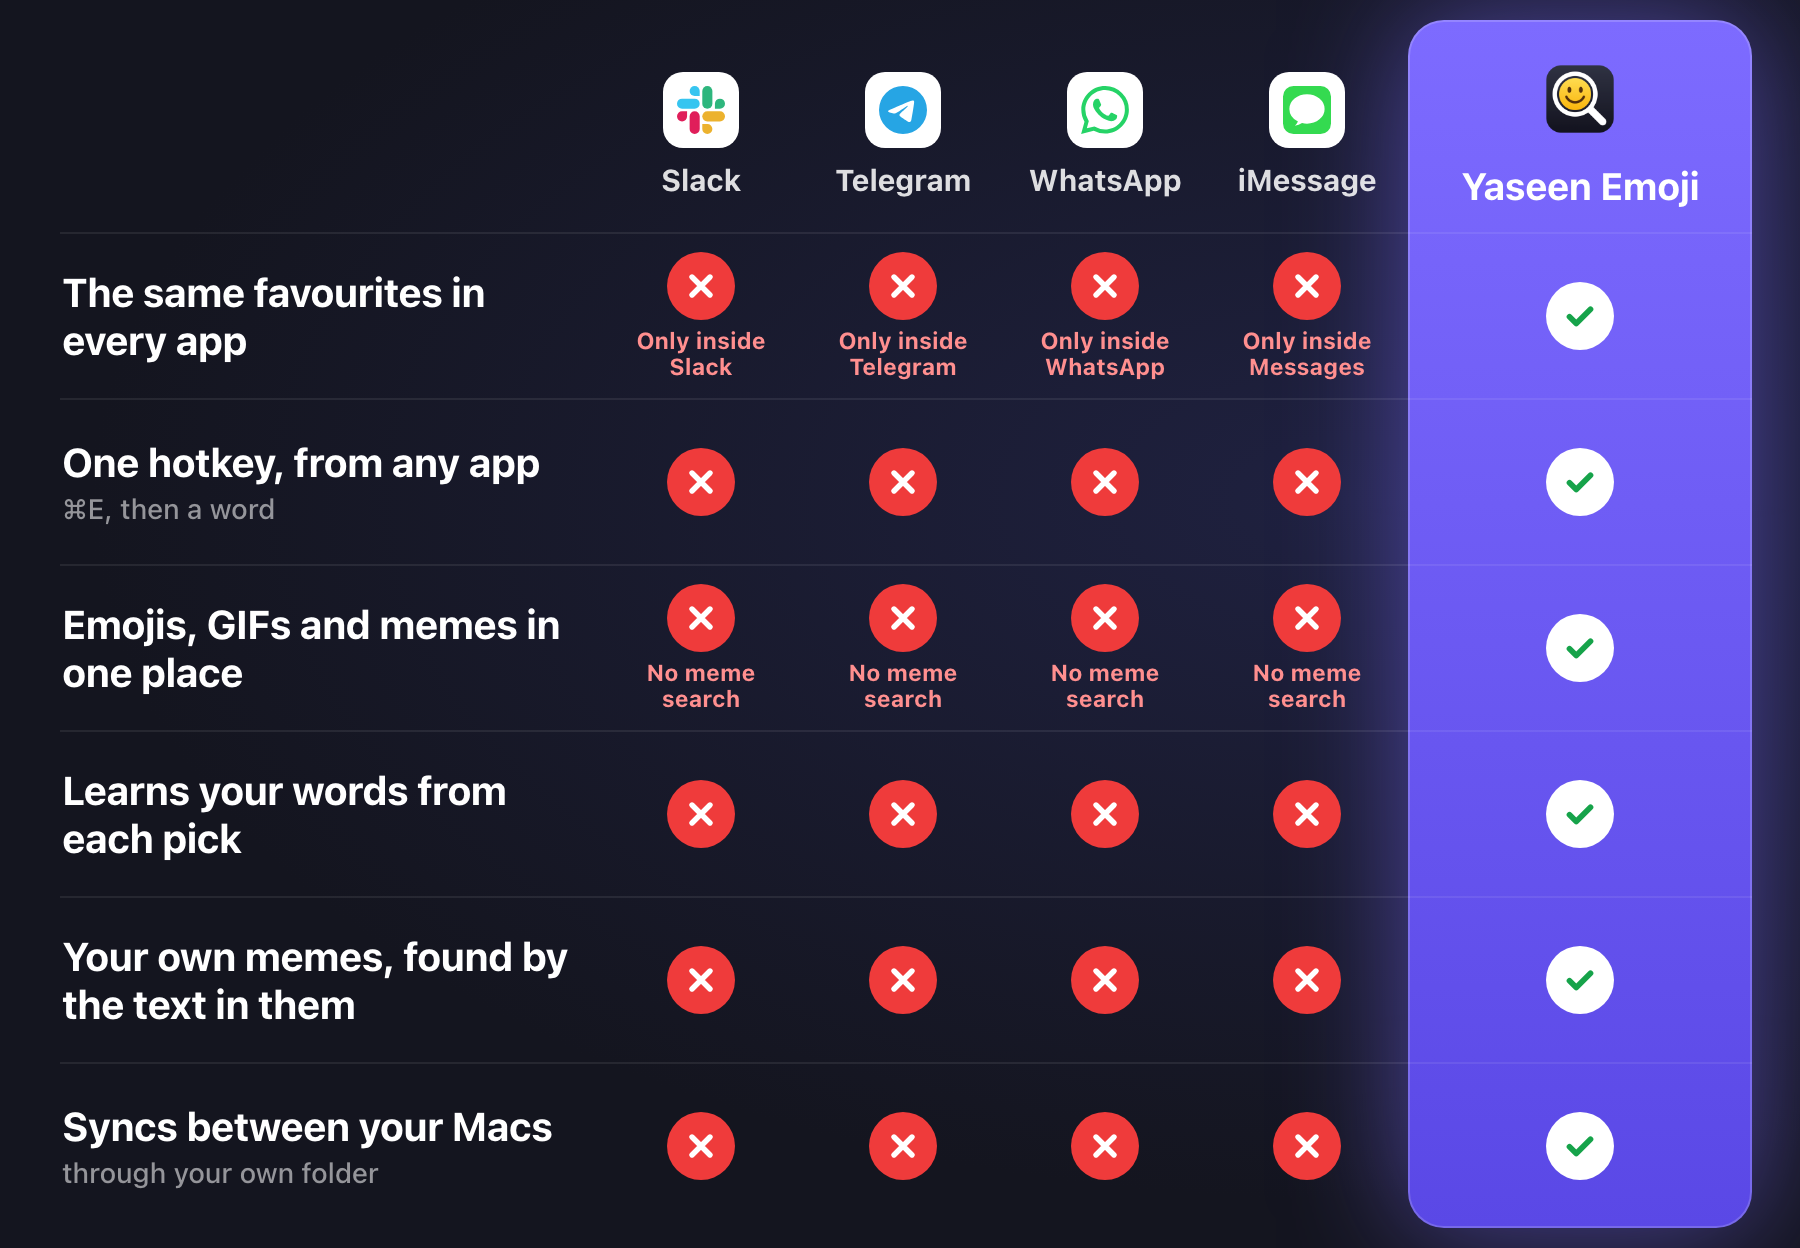
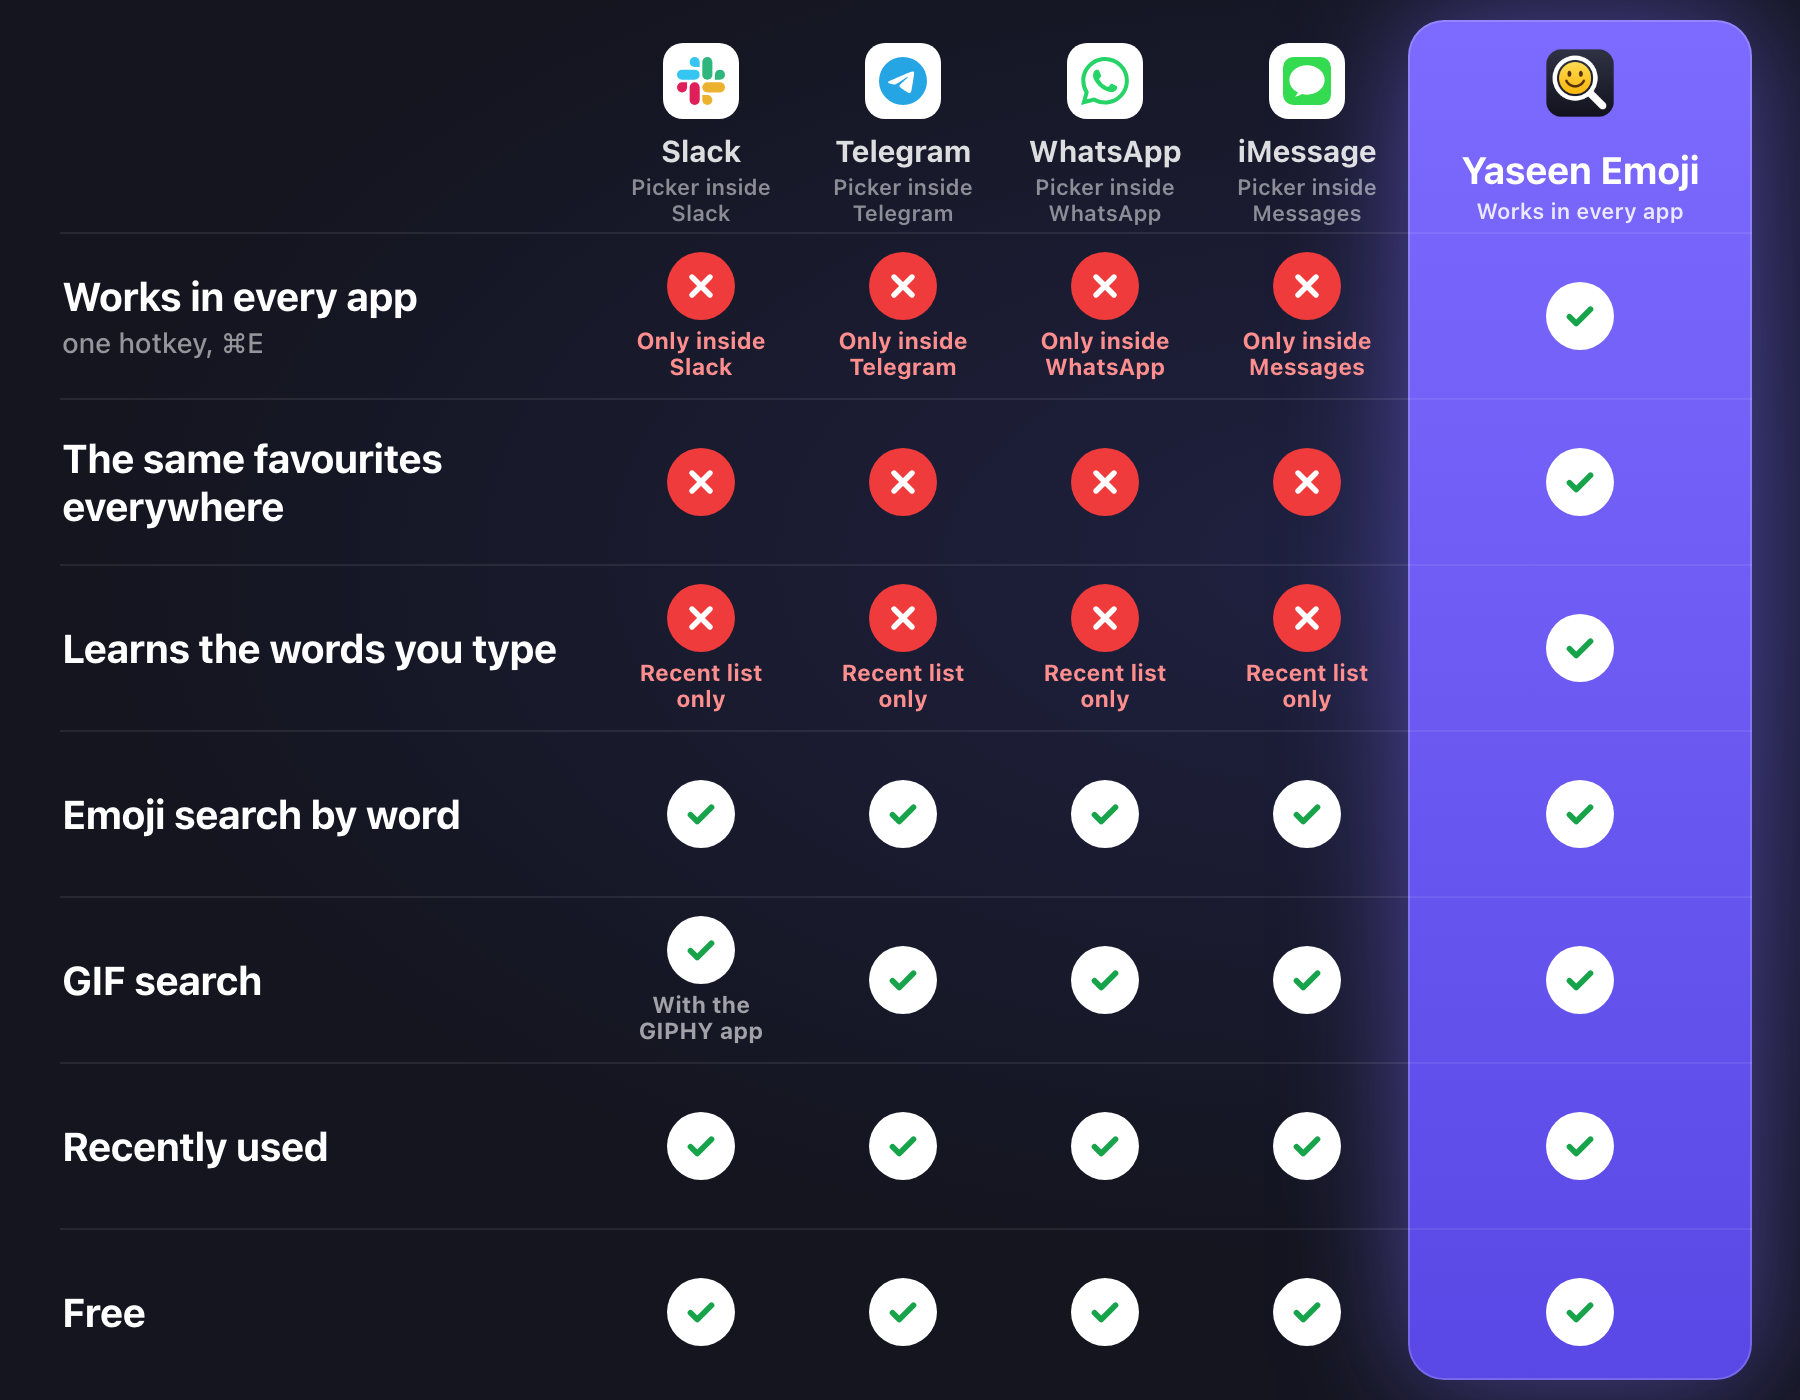
Make the comparison fair: the rows where the others fail first, then the basics that all five do

diff --git a/docs/assets/src/compare.html b/docs/assets/src/compare.html
@@ -4,7 +4,7 @@
 
   USAGE (from the repository root):
     "/Applications/Google Chrome.app/Contents/MacOS/Google Chrome" --headless=new --disable-gpu \
-      --hide-scrollbars --force-device-scale-factor=2 --window-size=900,624 \
+      --hide-scrollbars --force-device-scale-factor=2 --window-size=900,700 \
       --screenshot="$PWD/docs/assets/compare.png" "file://$PWD/docs/assets/src/compare.html"
 
   A change of a row is one line in ROWS below, then the command again.
@@ -18,11 +18,11 @@
 <style>
   :root { --card: #14151f; --line: rgba(255,255,255,0.08); --text: #ffffff; --soft: rgba(255,255,255,0.55); }
   html, body { margin: 0; background: var(--card); }
-  body { width: 900px; height: 624px; font-family: -apple-system, BlinkMacSystemFont, "SF Pro Display", "Helvetica Neue", sans-serif;
+  body { width: 900px; height: 700px; font-family: -apple-system, BlinkMacSystemFont, "SF Pro Display", "Helvetica Neue", sans-serif;
          color: var(--text); -webkit-font-smoothing: antialiased; overflow: hidden; }
-  .card { position: relative; width: 900px; height: 624px; box-sizing: border-box; padding: 18px 24px 0 30px;
+  .card { position: relative; width: 900px; height: 700px; box-sizing: border-box; padding: 18px 24px 0 30px;
           background: radial-gradient(900px 500px at 75% 40%, #1f2140 0%, var(--card) 70%); }
-  .hi { position: absolute; top: 10px; right: 24px; width: 172px; height: 604px; border-radius: 18px;
+  .hi { position: absolute; top: 10px; right: 24px; width: 172px; height: 680px; border-radius: 18px;
         background: linear-gradient(180deg, #7d6bff 0%, #5a48e6 100%);
         box-shadow: 0 0 60px rgba(124, 107, 255, 0.55), inset 0 0 0 1px rgba(255,255,255,0.18); }
   table { position: relative; border-collapse: collapse; width: 100%; table-layout: fixed; }
@@ -41,6 +41,9 @@
   .mark { display: inline-flex; align-items: center; justify-content: center; width: 34px; height: 34px; border-radius: 50%; }
   .no { background: #ef3b3b; } .yes { background: #fff; }
   .mark svg { width: 18px; height: 18px; }
+  th .sub { display: block; margin-top: 3px; font-size: 11px; font-weight: 600; color: rgba(255,255,255,0.5); }
+  th .sub.me { color: rgba(255,255,255,0.85); }
+  .why.ok { color: rgba(255,255,255,0.6); }
   .why { display: block; max-width: 84px; margin: 4px auto 0; font-size: 11.5px; font-weight: 700; color: #ff8f8f; line-height: 1.15; }
 </style>
 </head>
@@ -59,18 +62,20 @@
     { name: "Slack", logo: { svg: '<path fill="#E01E5A" d="M5.042 15.165a2.528 2.528 0 0 1-2.52 2.523A2.528 2.528 0 0 1 0 15.165a2.527 2.527 0 0 1 2.522-2.52h2.52v2.52z"/><path fill="#E01E5A" d="M6.313 15.165a2.527 2.527 0 0 1 2.521-2.52 2.527 2.527 0 0 1 2.521 2.52v6.313A2.528 2.528 0 0 1 8.834 24a2.528 2.528 0 0 1-2.521-2.522v-6.313z"/><path fill="#36C5F0" d="M8.834 5.042a2.528 2.528 0 0 1-2.521-2.52A2.528 2.528 0 0 1 8.834 0a2.528 2.528 0 0 1 2.521 2.522v2.52H8.834z"/><path fill="#36C5F0" d="M8.834 6.313a2.528 2.528 0 0 1 2.521 2.521 2.528 2.528 0 0 1-2.521 2.521H2.522A2.528 2.528 0 0 1 0 8.834a2.528 2.528 0 0 1 2.522-2.521h6.312z"/><path fill="#2EB67D" d="M18.956 8.834a2.528 2.528 0 0 1 2.522-2.521A2.528 2.528 0 0 1 24 8.834a2.528 2.528 0 0 1-2.522 2.521h-2.522V8.834z"/><path fill="#2EB67D" d="M17.688 8.834a2.528 2.528 0 0 1-2.523 2.521 2.527 2.527 0 0 1-2.52-2.521V2.522A2.527 2.527 0 0 1 15.165 0a2.528 2.528 0 0 1 2.523 2.522v6.312z"/><path fill="#ECB22E" d="M15.165 18.956a2.528 2.528 0 0 1 2.523 2.522A2.528 2.528 0 0 1 15.165 24a2.527 2.527 0 0 1-2.52-2.522v-2.522h2.52z"/><path fill="#ECB22E" d="M15.165 17.688a2.527 2.527 0 0 1-2.52-2.523 2.526 2.526 0 0 1 2.52-2.52h6.313A2.527 2.527 0 0 1 24 15.165a2.528 2.528 0 0 1-2.522 2.523h-6.313z"/>' } },
     { name: "Telegram", logo: { color: "#26A5E4", d: "M11.944 0A12 12 0 0 0 0 12a12 12 0 0 0 12 12 12 12 0 0 0 12-12A12 12 0 0 0 12 0a12 12 0 0 0-.056 0zm4.962 7.224c.1-.002.321.023.465.14a.506.506 0 0 1 .171.325c.016.093.036.306.02.472-.18 1.898-.962 6.502-1.36 8.627-.168.9-.499 1.201-.82 1.23-.696.065-1.225-.46-1.9-.902-1.056-.693-1.653-1.124-2.678-1.8-1.185-.78-.417-1.21.258-1.91.177-.184 3.247-2.977 3.307-3.23.007-.032.014-.15-.056-.212s-.174-.041-.249-.024c-.106.024-1.793 1.14-5.061 3.345-.48.33-.913.49-1.302.48-.428-.008-1.252-.241-1.865-.44-.752-.245-1.349-.374-1.297-.789.027-.216.325-.437.893-.663 3.498-1.524 5.83-2.529 6.998-3.014 3.332-1.386 4.025-1.627 4.476-1.635z" } },
     { name: "WhatsApp", logo: { color: "#25D366", d: "M17.472 14.382c-.297-.149-1.758-.867-2.03-.967-.273-.099-.471-.148-.67.15-.197.297-.767.966-.94 1.164-.173.199-.347.223-.644.075-.297-.15-1.255-.463-2.39-1.475-.883-.788-1.48-1.761-1.653-2.059-.173-.297-.018-.458.13-.606.134-.133.298-.347.446-.52.149-.174.198-.298.298-.497.099-.198.05-.371-.025-.52-.075-.149-.669-1.612-.916-2.207-.242-.579-.487-.5-.669-.51-.173-.008-.371-.01-.57-.01-.198 0-.52.074-.792.372-.272.297-1.04 1.016-1.04 2.479 0 1.462 1.065 2.875 1.213 3.074.149.198 2.096 3.2 5.077 4.487.709.306 1.262.489 1.694.625.712.227 1.36.195 1.871.118.571-.085 1.758-.719 2.006-1.413.248-.694.248-1.289.173-1.413-.074-.124-.272-.198-.57-.347m-5.421 7.403h-.004a9.87 9.87 0 01-5.031-1.378l-.361-.214-3.741.982.998-3.648-.235-.374a9.86 9.86 0 01-1.51-5.26c.001-5.45 4.436-9.884 9.888-9.884 2.64 0 5.122 1.03 6.988 2.898a9.825 9.825 0 012.893 6.994c-.003 5.45-4.437 9.884-9.885 9.884m8.413-18.297A11.815 11.815 0 0012.05 0C5.495 0 .16 5.335.157 11.892c0 2.096.547 4.142 1.588 5.945L.057 24l6.305-1.654a11.882 11.882 0 005.683 1.448h.005c6.554 0 11.89-5.335 11.893-11.893a11.821 11.821 0 00-3.48-8.413Z" } },
-    { name: "iMessage", logo: { color: "#34DA50", d: "M5.285 0A5.273 5.273 0 0 0 0 5.285v13.43A5.273 5.273 0 0 0 5.285 24h13.43A5.273 5.273 0 0 0 24 18.715V5.285A5.273 5.273 0 0 0 18.715 0ZM12 4.154a8.809 7.337 0 0 1 8.809 7.338A8.809 7.337 0 0 1 12 18.828a8.809 7.337 0 0 1-2.492-.303A8.656 7.337 0 0 1 5.93 19.93a9.929 7.337 0 0 0 1.54-2.155 8.809 7.337 0 0 1-4.279-6.283A8.809 7.337 0 0 1 12 4.154" } },
+    { name: "iMessage", short: "Messages", logo: { color: "#34DA50", d: "M5.285 0A5.273 5.273 0 0 0 0 5.285v13.43A5.273 5.273 0 0 0 5.285 24h13.43A5.273 5.273 0 0 0 24 18.715V5.285A5.273 5.273 0 0 0 18.715 0ZM12 4.154a8.809 7.337 0 0 1 8.809 7.338A8.809 7.337 0 0 1 12 18.828a8.809 7.337 0 0 1-2.492-.303A8.656 7.337 0 0 1 5.93 19.93a9.929 7.337 0 0 0 1.54-2.155 8.809 7.337 0 0 1-4.279-6.283A8.809 7.337 0 0 1 12 4.154" } },
   ];
-  // The rows, in the owner's order (YAZ-2931). Each entry of `no` is the reason below the cross of that column, or "".
+  // The rows, in the owner's order (YAZ-2931): the rows where the others fail first, then the basics that they all do.
+  // Each cell: [true or false, the short line below the mark or ""]. The last column (Yaseen Emoji) is always a tick.
+  const Y = [true, ""], N = [false, ""];
   const ROWS = [
-    { text: "The same favourites in every app", small: "",
-      no: ["Only inside Slack", "Only inside Telegram", "Only inside WhatsApp", "Only inside Messages"] },
-    { text: "One hotkey, from any app", small: "⌘E, then a word", no: ["", "", "", ""] },
-    { text: "Emojis, GIFs and memes in one place", small: "",
-      no: ["No meme search", "No meme search", "No meme search", "No meme search"] },
-    { text: "Learns your words from each pick", small: "", no: ["", "", "", ""] },
-    { text: "Your own memes, found by the text in them", small: "", no: ["", "", "", ""] },
-    { text: "Syncs between your Macs", small: "through your own folder", no: ["", "", "", ""] },
+    { text: "Works in every app", small: "one hotkey, ⌘E",
+      cells: [[false, "Only inside Slack"], [false, "Only inside Telegram"], [false, "Only inside WhatsApp"], [false, "Only inside Messages"]] },
+    { text: "The same favourites everywhere", small: "", cells: [N, N, N, N] },
+    { text: "Learns the words you type", small: "", cells: [[false, "Recent list only"], [false, "Recent list only"], [false, "Recent list only"], [false, "Recent list only"]] },
+    { text: "Emoji search by word", small: "", cells: [Y, Y, Y, Y] },
+    { text: "GIF search", small: "", cells: [[true, "With the GIPHY app"], Y, Y, Y] },
+    { text: "Recently used", small: "", cells: [Y, Y, Y, Y] },
+    { text: "Free", small: "", cells: [Y, Y, Y, Y] },
   ];
   const CROSS = '<svg viewBox="0 0 24 24"><path d="M6 6l12 12M18 6L6 18" stroke="#fff" stroke-width="3.6" stroke-linecap="round"/></svg>';
   const TICK = '<svg viewBox="0 0 24 24"><path d="M5 12.5l4.5 4.5L19 7.5" fill="none" stroke="#16a34a" stroke-width="3.8" stroke-linecap="round" stroke-linejoin="round"/></svg>';
@@ -78,13 +83,15 @@
   for (const p of PRODUCTS) {
     const logo = p.logo ? `<span class="logo"><svg viewBox="0 0 24 24">${p.logo.svg || `<path fill="${p.logo.color}" d="${p.logo.d}"/>`}</svg></span>`
                          : `<span class="logo blank"></span>`;
-    head.insertAdjacentHTML("beforeend", `<th>${logo}<span class="name">${p.name}</span></th>`);
+    head.insertAdjacentHTML("beforeend", `<th>${logo}<span class="name">${p.name}</span><span class="sub">Picker inside ${p.short || p.name}</span></th>`);
   }
-  head.insertAdjacentHTML("beforeend", `<th class="me"><span class="logo none"><img src="icon.png" alt=""></span><span class="name">Yaseen Emoji</span></th>`);
+  head.insertAdjacentHTML("beforeend", `<th class="me"><span class="logo none"><img src="icon.png" alt=""></span><span class="name">Yaseen Emoji</span><span class="sub me">Works in every app</span></th>`);
   const body = document.getElementById("rows");
   for (const r of ROWS) {
     let cells = `<td class="row">${r.text}${r.small ? `<small>${r.small}</small>` : ""}</td>`;
-    for (const why of r.no) cells += `<td><span class="mark no">${CROSS}</span>${why ? `<span class="why">${why}</span>` : ""}</td>`;
+    for (const [ok, why] of r.cells) {
+      cells += `<td><span class="mark ${ok ? "yes" : "no"}">${ok ? TICK : CROSS}</span>${why ? `<span class="why${ok ? " ok" : ""}">${why}</span>` : ""}</td>`;
+    }
     cells += `<td><span class="mark yes">${TICK}</span></td>`;
     body.insertAdjacentHTML("beforeend", `<tr>${cells}</tr>`);
   }

diff --git a/README.md b/README.md
@@ -38,10 +38,10 @@ Maybe you know these moments:
 - You saved a great meme last month. Now you can't find it, because no app searches the words in a picture.
 
 <p align="center">
-  <img src="docs/assets/compare.png" width="860" alt="A comparison of Slack, Telegram, WhatsApp, iMessage and Yaseen Emoji. Six rows: the same favourites in every app; one hotkey, from any app; emojis, GIFs and memes in one place; learns your words from each pick; your own memes, found by the text in them; syncs between your Macs through your own folder. Slack, Telegram, WhatsApp and iMessage have a cross in each row: their favourites are only inside their own app, and they have no meme search. Yaseen Emoji has a tick in each row.">
+  <img src="docs/assets/compare.png" width="860" alt="A comparison of the pickers inside Slack, Telegram, WhatsApp and iMessage with Yaseen Emoji. Works in every app: only Yaseen Emoji; each other picker works only inside its own app. The same favourites everywhere: only Yaseen Emoji. Learns the words you type: only Yaseen Emoji; the others keep a recent list only. Emoji search by word, GIF search (Slack with the GIPHY app), recently used, and free: all five.">
 </p>
 
-<p align="center"><sub>Slack, Telegram, WhatsApp and iMessage are their Mac apps. Each cross was checked on the help pages of that product on 16 Oct 2026.</sub></p>
+<p align="center"><sub>Slack, Telegram, WhatsApp and iMessage are the emoji and GIF pickers inside their Mac apps, as their help pages describe them on 16 Oct 2026. Slack shows GIFs when a workspace adds the GIPHY app.</sub></p>
 
 ## The answer
 
